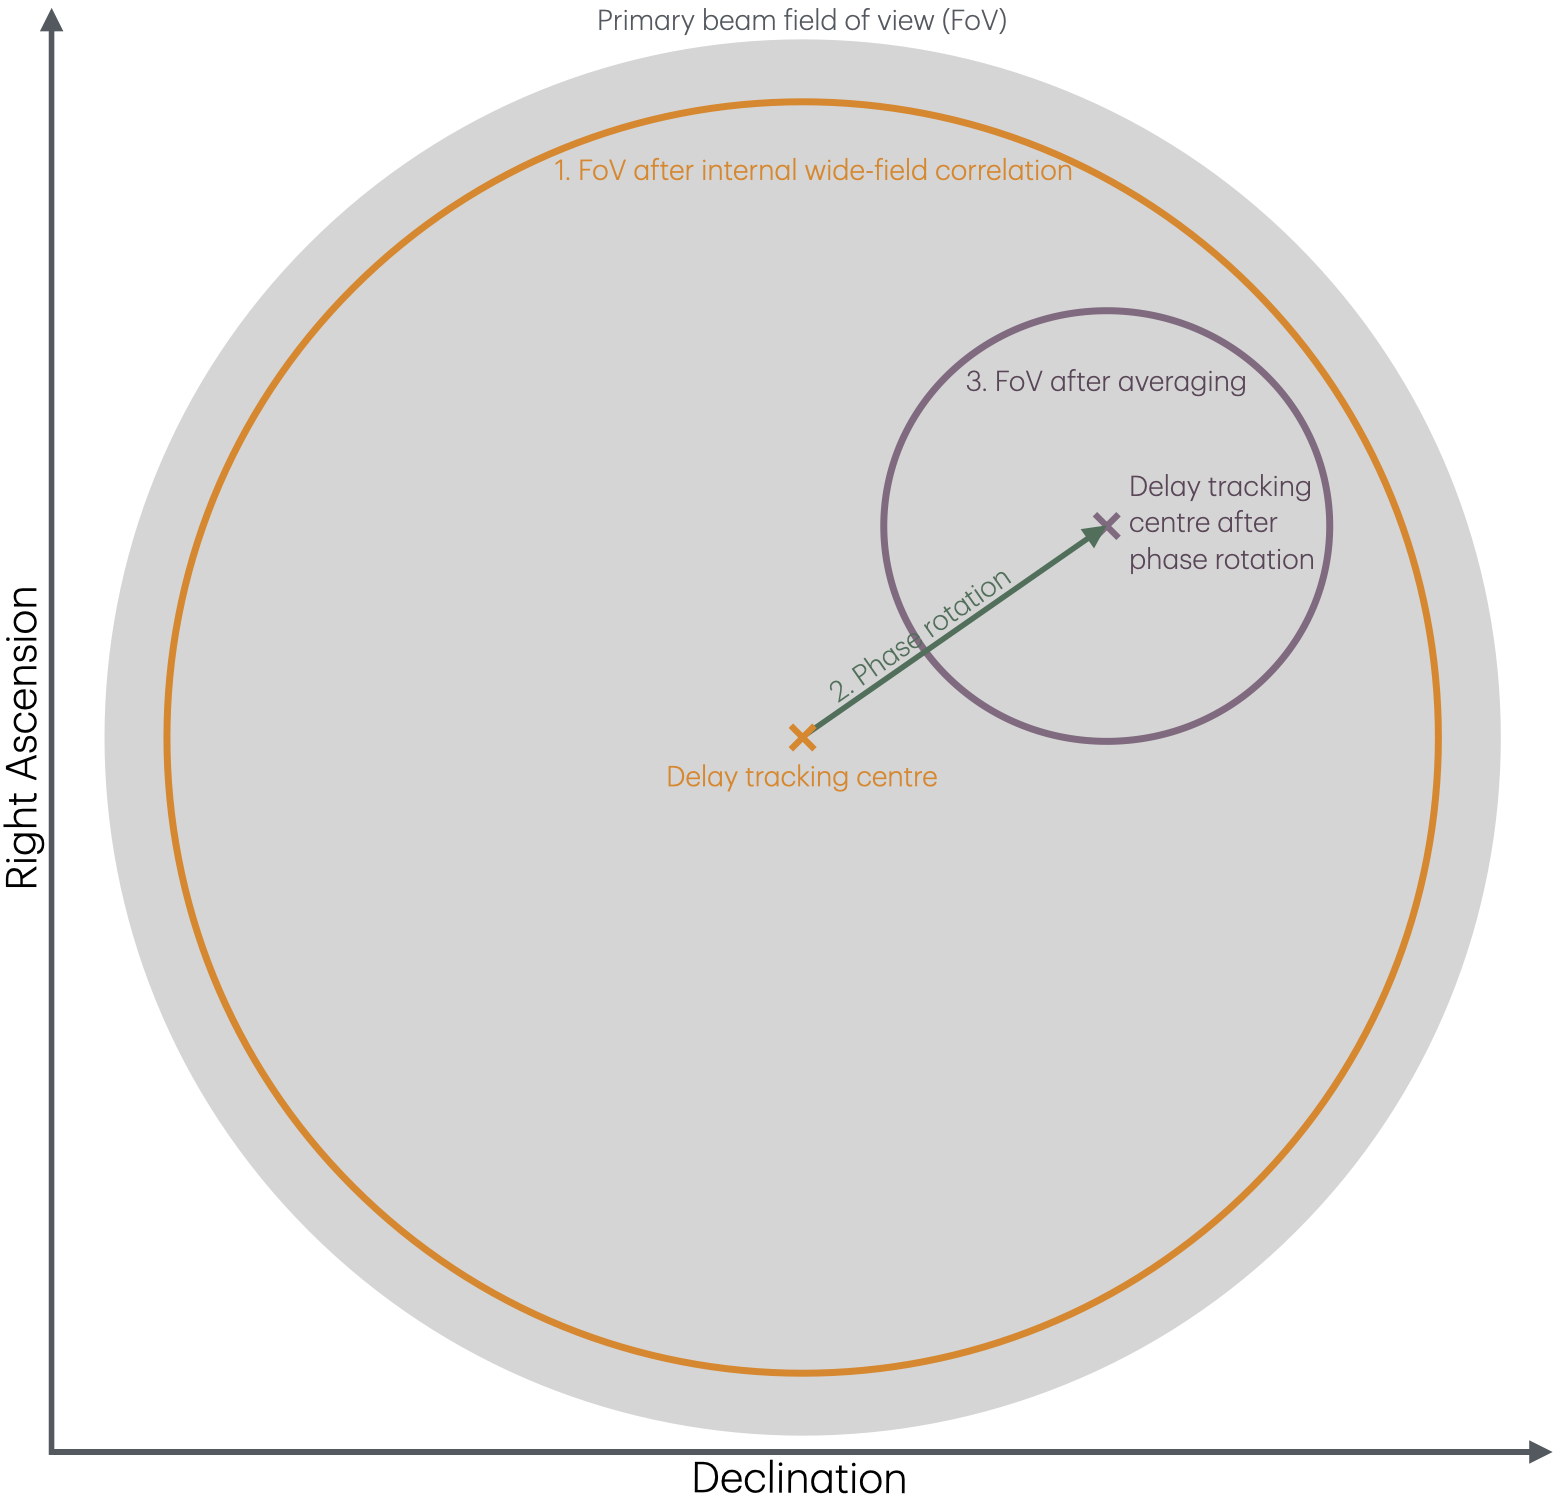
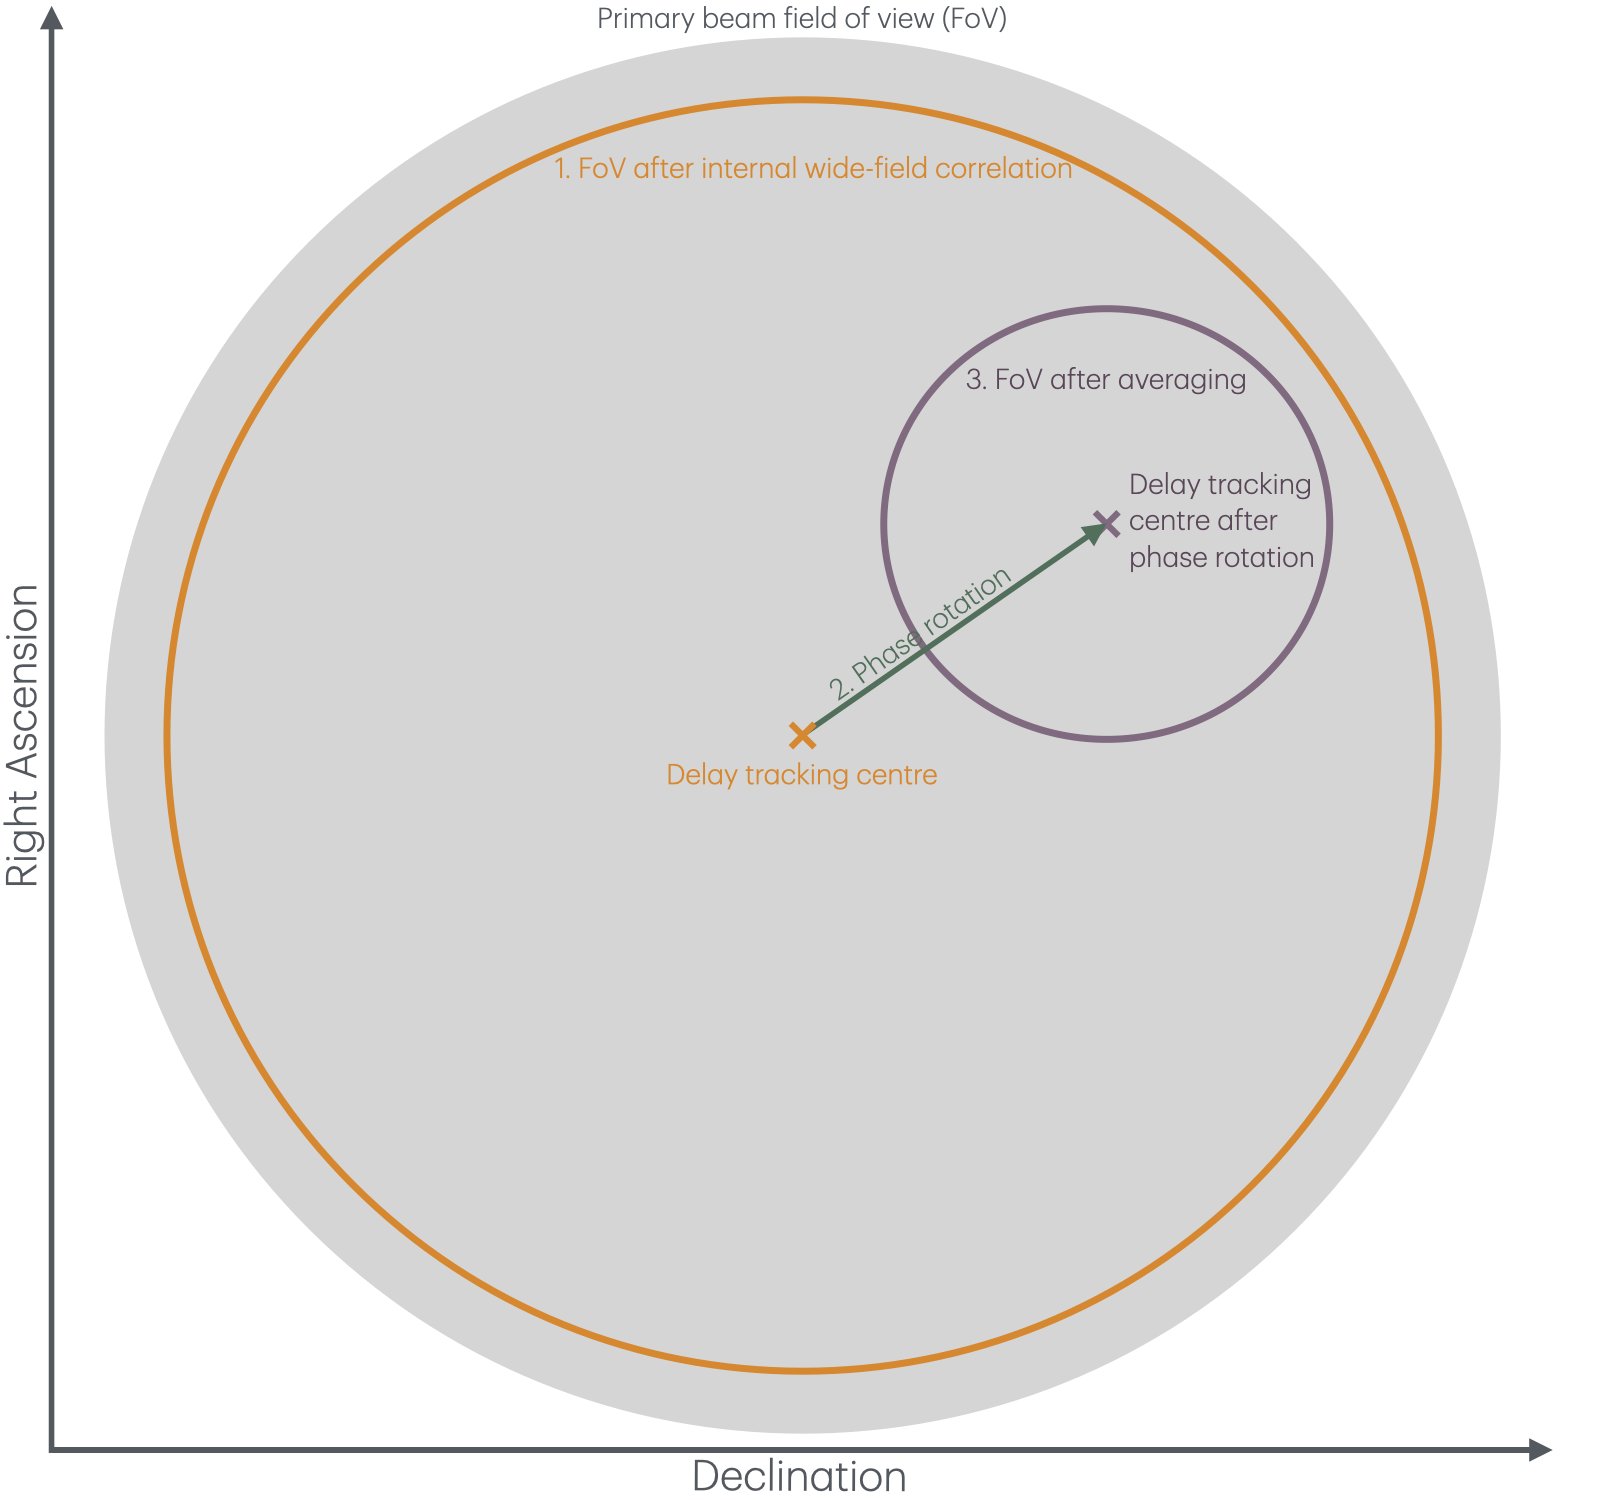
cleaned up info on correlation

diff --git a/wide-field.md b/wide-field.md
@@ -45,25 +45,23 @@ Wide-field VLBI is a specialised observing mode which correlates multiple source
 
 Doing this for the **entire primary beam** produces **huge datasets** (often terabytes) and demands extreme computational resources, which is increasingly impractical with modern VLBI arrays’ higher bit rates.
 
-Instead of correlating the whole beam at full resolution, **software correlators** implement the *multiple phase centre observing* mode:
+Instead of correlating the whole beam at full resolution, **software correlators** implement the *multiple phase centre observing* mode (Deller et al. 2011). This process has three distinct steps which are as follows (and shown in the Figure below):
 
 1. **Initial correlation at high resolution**  
-   The correlator internally processes the data with very fine time and frequency steps.
+   The correlator internally processes the data with a fine time and frequency resolution. This retains the large field-of-view as smearing is kept to a minimum.
 
-2. **Define phase centres**  
-   The observer specifies multiple positions within the primary beam:  
+2. **Make copies & phase rotate to different positions within the primary beam**
+   The observer specifies multiple positions within the primary beam. These could be:  
    - **Sources of interest** (e.g., calibrator + targets).  
    - Or a **grid** to cover the field.
+   We then phase rotate the delay tracking centre to these positions.
 
-3. **For each phase centre**:  
-   - Apply a **phase rotation** to shift the data to that direction.  
+3. **Average the phase rotated data sets**:  
    - **Average** to a manageable smearing (e.g., 30–60″ field of view).
+   - Produces **small (∼GB) datasets** per phase centre instead of a single massive file.  
+   - Each dataset can be calibrated and imaged independently and in parallel.
 
-4. **Output**  
-   Produces **small (∼GB) datasets** per phase centre instead of a single massive file.  
-   Each dataset can be calibrated and imaged independently and in parallel.
-
-<img src="figures/wf_vlbi_cor_diagram.png" alt="drawing" style="width: 50%;height: auto;"/>
+<img src="figures/wf_vlbi_cor_diagram.png" alt="drawing" style="width: 60%;height: auto;"/>
 
 ---
 
